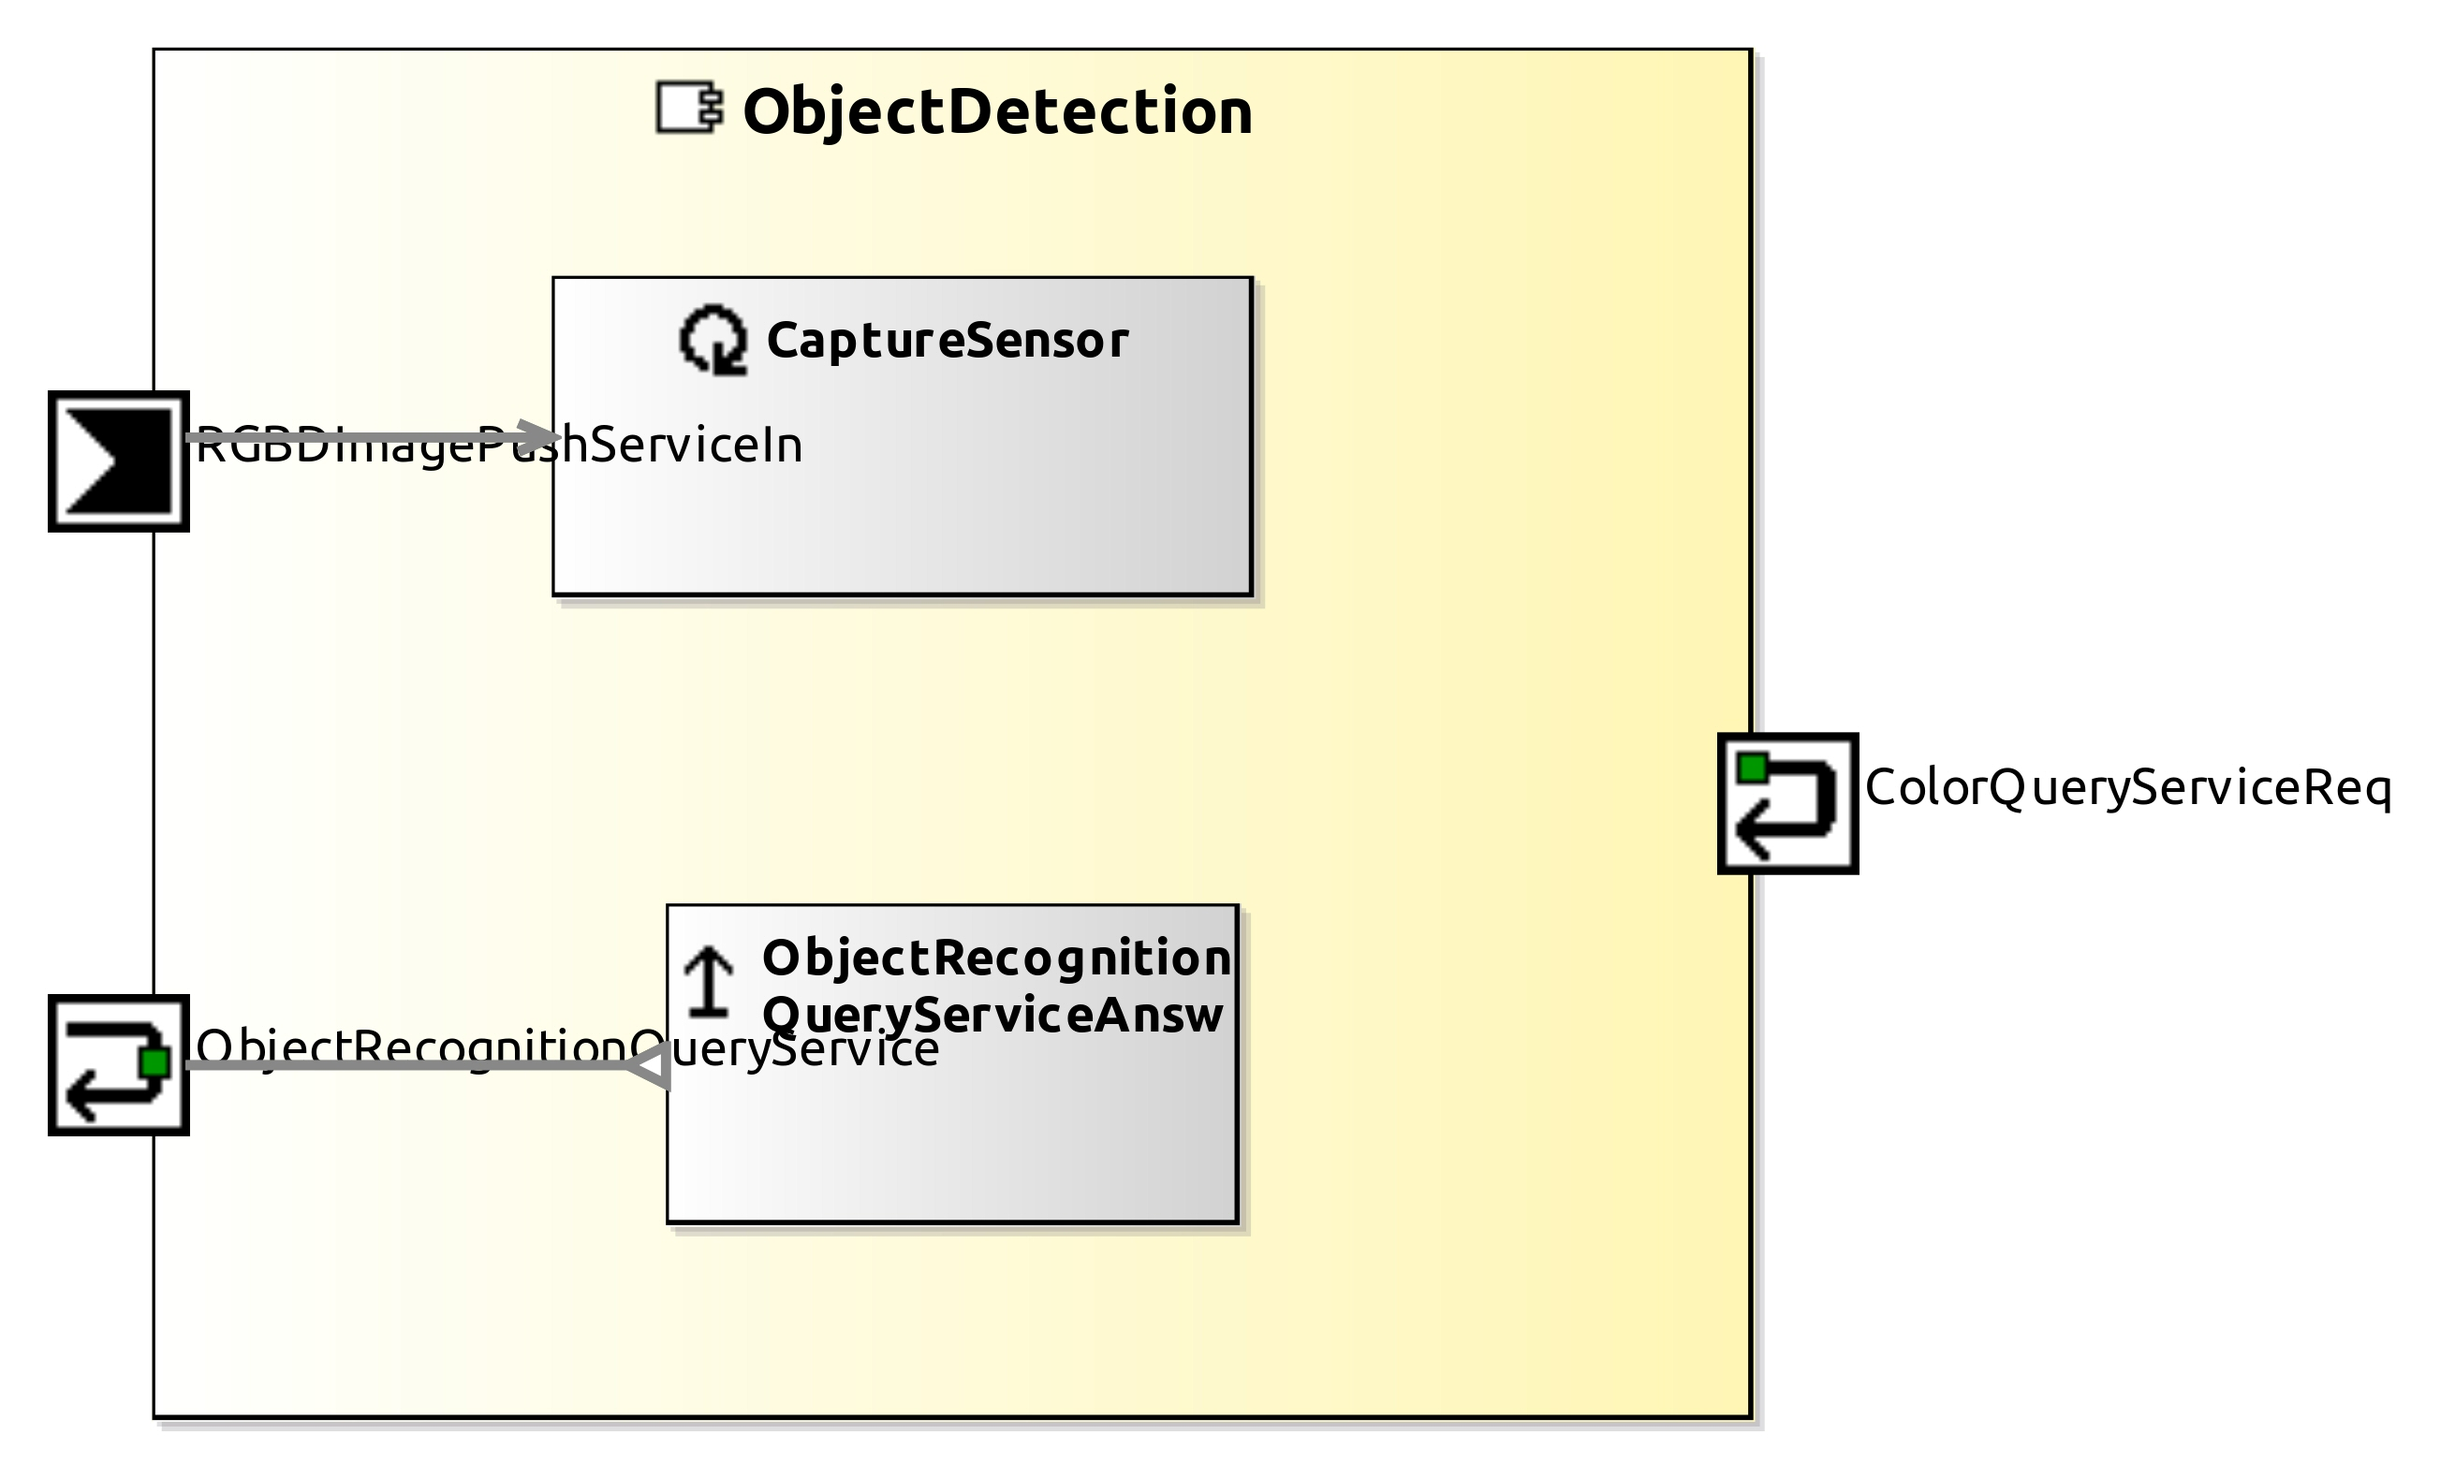
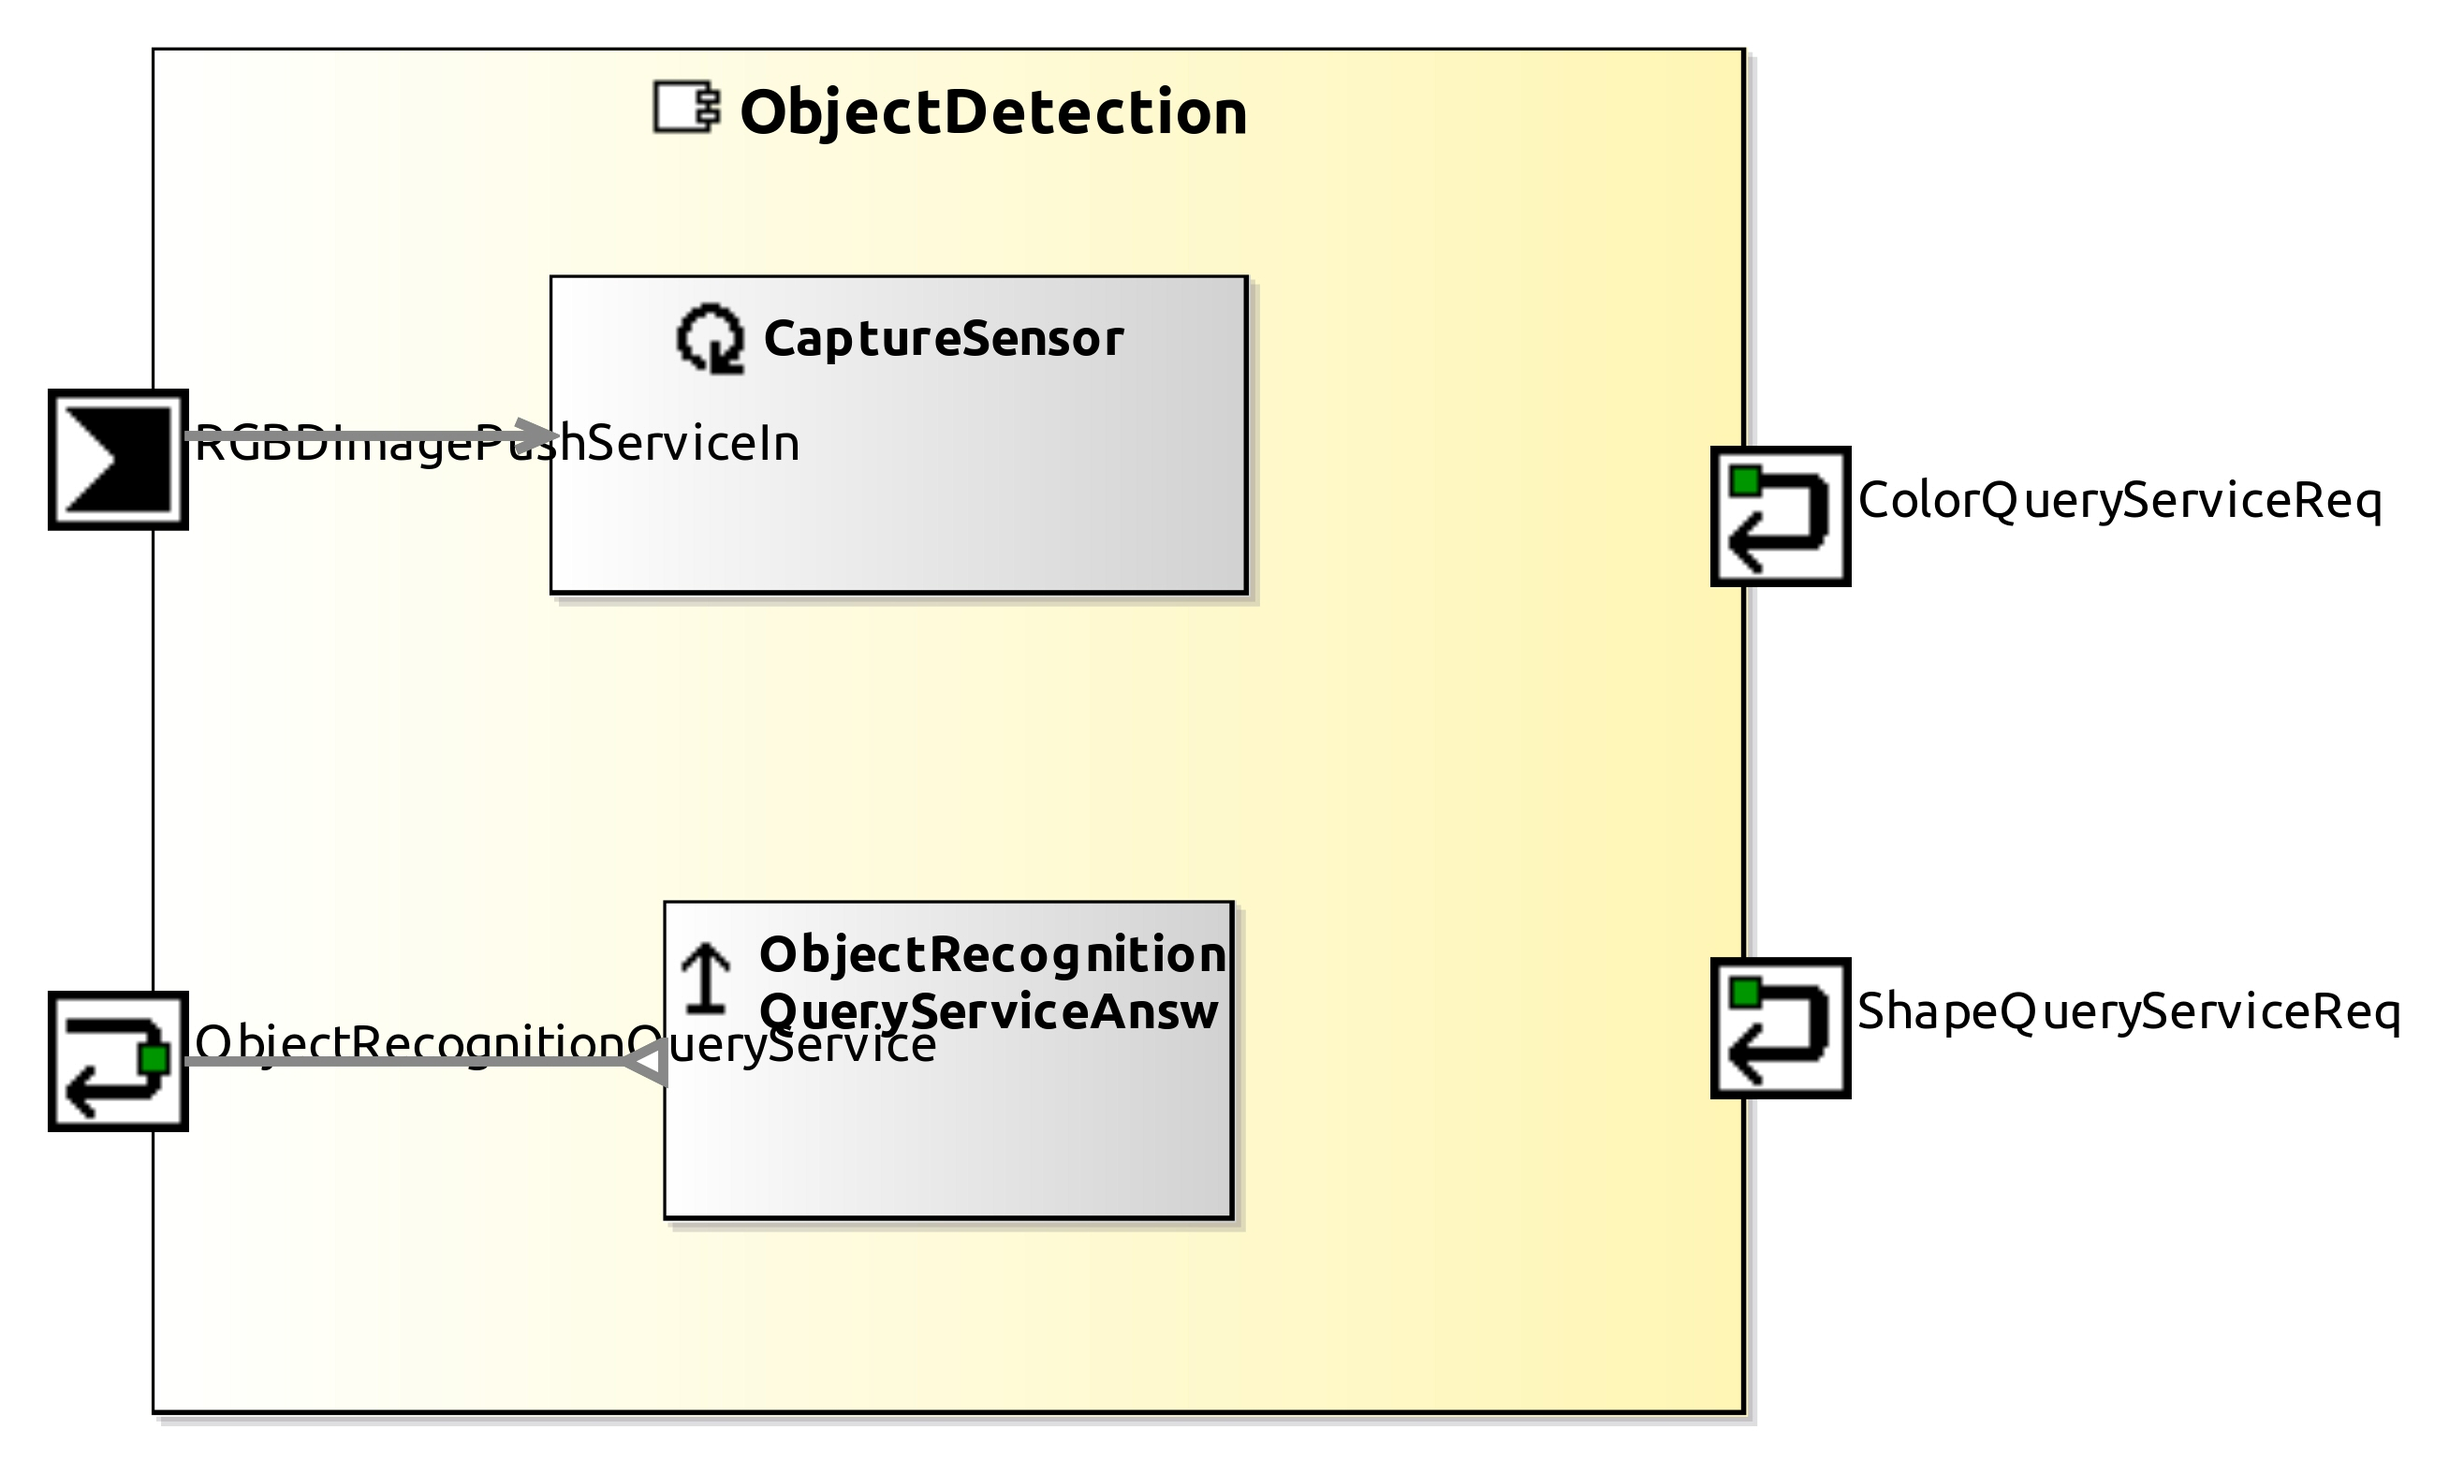
object detection service for shape recognition -- miss include return information

diff --git a/ObjectDetection/smartsoft/src/CaptureSensor.cc b/ObjectDetection/smartsoft/src/CaptureSensor.cc
@@ -73,6 +73,26 @@ void CaptureSensor::ColorSegmentation()
 //	objectRecognitionQueryServiceAnsw-> = objectInformation;
 }
 
+void CaptureSensor::ShapeRecognition()
+{
+	CommObjectRecognitionObjects::CommInfDetection objectinf_in;
+	objectinf_in.setShape(COMP->shapeObject);
+
+	CommObjectRecognitionObjects::CommObjectRecognitionObjectProperties objectinf_out;
+
+
+	Smart::StatusCode status2 = COMP->shapeQueryServiceReq->query(objectinf_in, objectinf_out);
+
+	if(status2 != Smart::SMART_OK) {
+		std::cerr << "objectRecognitionQueryServiceReq: " << Smart::StatusCodeConversion(status2)<< std::endl;
+	}
+
+//	COMP->colorSegmentation_point = objectinf_out;
+
+//	std::cout<< "[ObjectRecognitionQuery] Object detected, position  x:"<<objectinf_out.getX()<<", y:"<<objectinf_out.getY()<<std::endl;
+
+}
+
 
 int CaptureSensor::on_entry()
 {
@@ -83,12 +103,15 @@ int CaptureSensor::on_entry()
 int CaptureSensor::on_execute()
 {
 
-		if(COMP->evaluateColorSegmentation){
-			ColorSegmentation();
-			COMP->evaluateColorSegmentation = false;
-		}
-//	std::cout << "Hello from CaptureSensor " << std::endl;
+	if(COMP->evaluateColorSegmentation){
+		ColorSegmentation();
+		COMP->evaluateColorSegmentation = false;
+	}
 
+	if(COMP->evaluateShape){
+		ShapeRecognition();
+		COMP->evaluateShape = false;
+	}
 	// it is possible to return != 0 (e.g. when the task detects errors), then the outer loop breaks and the task stops
 	return 0;
 }

diff --git a/ObjectDetection/smartsoft/src/ObjectRecognitionQueryServiceAnsw.cc b/ObjectDetection/smartsoft/src/ObjectRecognitionQueryServiceAnsw.cc
@@ -45,9 +45,18 @@ void ObjectRecognitionQueryServiceAnsw::setAnswer(CommObjectRecognitionObjects::
 void ObjectRecognitionQueryServiceAnsw::handleQuery(const SmartACE::QueryId &id, const CommObjectRecognitionObjects::CommObjectRecognitionInformation& request) 
 {
 
-	COMP->evaluateColorSegmentation = true;
+
 	COMP->roiObject = request.getRoi();
-	COMP->colorObject = request.getColor();
+
+	if (request.getColor().getName() == CommObjectRecognitionObjects::Colors::UNDEFINED ){
+		COMP->evaluateColorSegmentation = true;
+		COMP->colorObject = request.getColor();
+	}
+	if (request.getShape().getName() == CommObjectRecognitionObjects::Shapes::UNDEFINED ){
+		COMP->evaluateShape = true;
+		COMP->shapeObject = request.getShape();
+	}
+
 
 	std::cout<< "[ObjectRecognitionQuery] roi width:"<<request.getRoi().getWidth() <<", height:"<<request.getRoi().getHeight()<<std::endl;
 
